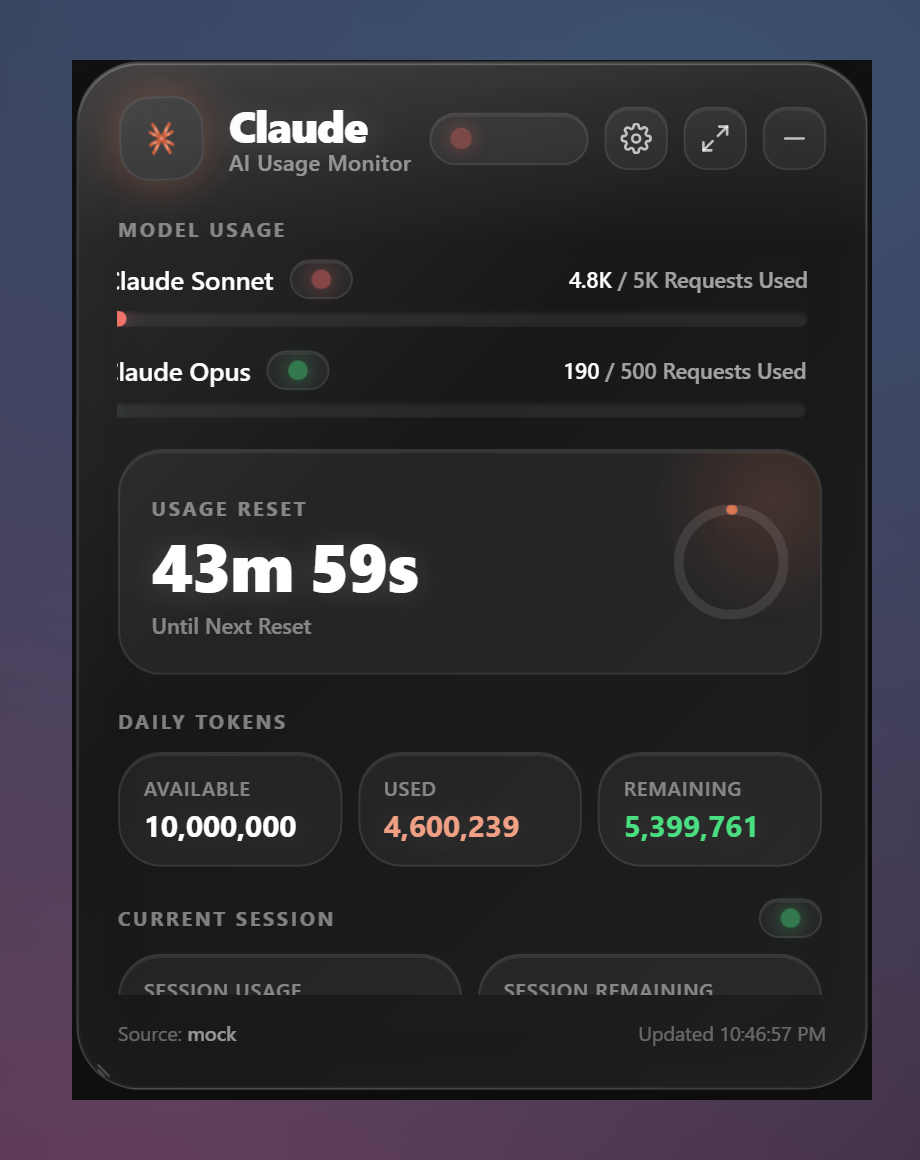
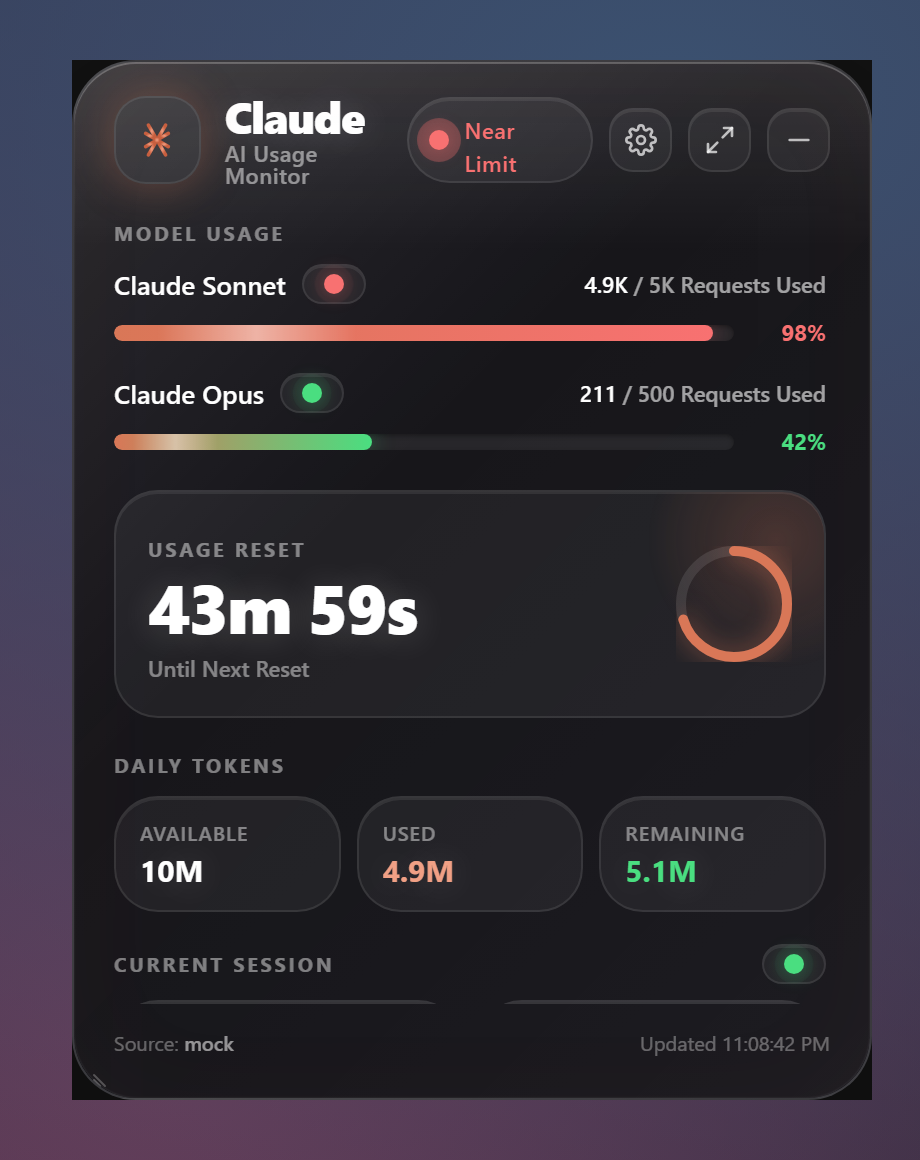
v1.0.1 — drag fix, readability, remove click-through, % bars, compact numbers
- Move: header now calls startDragging() on mousedown (reliable drag)
- Readability: stronger dark glass tint + more opaque default; backdrop-filter
  cannot blur the desktop behind a transparent window, so legibility comes from
  the tint
- Remove Click-Through Mode entirely (UI, store, hook, JS bridge, Rust command)
  and force the window interactive on startup so it can never get stuck
- Show percentage on model + session progress bars
- Daily Tokens use compact K/M/B numbers
- Data: Available daily = configured limit (was max(limit, used))
- Refresh README screenshots

diff --git a/src/components/Header.tsx b/src/components/Header.tsx
@@ -4,7 +4,7 @@ import { ClaudeLogo } from "./ClaudeLogo";
 import { StatusIndicator } from "./StatusIndicator";
 import type { StatusLevel } from "@/types/usage";
 import { useUI } from "@/store/uiStore";
-import { minimizeToTray } from "@/lib/tauri";
+import { minimizeToTray, startDrag } from "@/lib/tauri";
 
 interface HeaderProps {
   level: StatusLevel;
@@ -12,20 +12,28 @@ interface HeaderProps {
 
 /**
  * Top bar: brand mark + title, the live status pill, and the settings / expand
- * controls. The whole bar (except the buttons) is a Tauri drag region so the
- * user can fling the HUD around the desktop.
+ * controls. Press-and-drag anywhere on the bar (except the buttons) to move the
+ * whole window — we call `startDragging()` explicitly because the
+ * `data-tauri-drag-region` attribute alone can be unreliable.
  */
 export function Header({ level }: HeaderProps) {
   const expanded = useUI((s) => s.expanded);
   const toggleExpanded = useUI((s) => s.toggleExpanded);
   const openSettings = useUI((s) => s.openSettings);
 
+  const onDragMouseDown = (e: React.MouseEvent) => {
+    // Primary button only, and never when starting on an interactive control.
+    if (e.button !== 0) return;
+    if ((e.target as HTMLElement).closest("button")) return;
+    void startDrag();
+  };
+
   return (
     <header
-      data-tauri-drag-region
-      className="flex items-center justify-between"
+      onMouseDown={onDragMouseDown}
+      className="flex cursor-grab items-center justify-between active:cursor-grabbing"
     >
-      <div data-tauri-drag-region className="flex items-center gap-3">
+      <div className="flex items-center gap-3">
         <motion.div
           initial={{ rotate: -20, opacity: 0, scale: 0.7 }}
           animate={{ rotate: 0, opacity: 1, scale: 1 }}
@@ -35,17 +43,11 @@ export function Header({ level }: HeaderProps) {
         >
           <ClaudeLogo size={26} />
         </motion.div>
-        <div data-tauri-drag-region className="leading-none">
-          <h1
-            data-tauri-drag-region
-            className="text-[22px] font-extrabold tracking-tight text-white text-glow"
-          >
+        <div className="leading-none">
+          <h1 className="text-[22px] font-extrabold tracking-tight text-white text-glow">
             Claude
           </h1>
-          <p
-            data-tauri-drag-region
-            className="mt-0.5 text-[11px] font-medium tracking-wide text-white/50"
-          >
+          <p className="mt-0.5 text-[11px] font-medium tracking-wide text-white/50">
             AI Usage Monitor
           </p>
         </div>

diff --git a/src/components/SessionSection.tsx b/src/components/SessionSection.tsx
@@ -3,7 +3,13 @@ import { SectionLabel } from "./SectionLabel";
 import { StatTile } from "./StatTile";
 import { ProgressBar } from "./ProgressBar";
 import { StatusIndicator } from "./StatusIndicator";
-import { formatCompact, ratio, statusFromRatio } from "@/lib/utils";
+import {
+  formatCompact,
+  formatPct,
+  ratio,
+  statusFromRatio,
+  STATUS_META,
+} from "@/lib/utils";
 
 interface SessionSectionProps {
   session: SessionStats;
@@ -33,7 +39,17 @@ export function SessionSection({ session }: SessionSectionProps) {
           accent="#4ade80"
         />
       </div>
-      <ProgressBar value={r} />
+      <div className="flex items-center gap-2.5">
+        <div className="flex-1">
+          <ProgressBar value={r} />
+        </div>
+        <span
+          className="w-9 text-right text-[11px] font-bold tabular-nums"
+          style={{ color: STATUS_META[status].color }}
+        >
+          {formatPct(r)}
+        </span>
+      </div>
     </section>
   );
 }

diff --git a/src/components/UsageSection.tsx b/src/components/UsageSection.tsx
@@ -3,7 +3,13 @@ import type { ModelUsage } from "@/types/usage";
 import { ProgressBar } from "./ProgressBar";
 import { SectionLabel } from "./SectionLabel";
 import { StatusIndicator } from "./StatusIndicator";
-import { formatCompact, ratio, statusFromRatio } from "@/lib/utils";
+import {
+  formatCompact,
+  formatPct,
+  ratio,
+  statusFromRatio,
+  STATUS_META,
+} from "@/lib/utils";
 
 interface UsageSectionProps {
   models: ModelUsage[];
@@ -46,7 +52,17 @@ function ModelRow({ model, index }: { model: ModelUsage; index: number }) {
           {formatCompact(model.requestsLimit)} Requests Used
         </span>
       </div>
-      <ProgressBar value={r} />
+      <div className="flex items-center gap-2.5">
+        <div className="flex-1">
+          <ProgressBar value={r} />
+        </div>
+        <span
+          className="w-9 text-right text-[11px] font-bold tabular-nums"
+          style={{ color: STATUS_META[status].color }}
+        >
+          {formatPct(r)}
+        </span>
+      </div>
     </motion.div>
   );
 }

diff --git a/src/lib/tauri.ts b/src/lib/tauri.ts
@@ -45,10 +45,6 @@ export async function setAlwaysOnTop(value: boolean): Promise<void> {
   await invoke("set_always_on_top", { value });
 }
 
-export async function setClickThrough(value: boolean): Promise<void> {
-  await invoke("set_click_through", { value });
-}
-
 export async function setWidgetSize(
   width: number,
   height: number,
@@ -68,6 +64,21 @@ export async function hideWindow(): Promise<void> {
 /** Minimize the HUD to the system tray (no taskbar entry exists). */
 export async function minimizeToTray(): Promise<void> {
   await invoke("hide_window");
+}
+
+/**
+ * Begin an OS-driven window move. Called on mousedown over the header so the
+ * whole top bar reliably drags the widget (more robust than relying solely on
+ * the `data-tauri-drag-region` attribute). No-op outside Tauri.
+ */
+export async function startDrag(): Promise<void> {
+  if (!isTauri()) return;
+  try {
+    const { getCurrentWindow } = await import("@tauri-apps/api/window");
+    await getCurrentWindow().startDragging();
+  } catch (err) {
+    console.warn("[tauri] startDrag failed:", err);
+  }
 }
 
 /** Edge/corner identifiers accepted by Tauri's interactive resize. */

diff --git a/src/store/settingsStore.ts b/src/store/settingsStore.ts
@@ -4,11 +4,9 @@ import { persist } from "zustand/middleware";
 export interface Settings {
   /** Keep the widget above all other windows. */
   alwaysOnTop: boolean;
-  /** Let mouse events pass through the widget to whatever is behind it. */
-  clickThrough: boolean;
   /** Launch the widget automatically when Windows starts. */
   launchOnStartup: boolean;
-  /** Glass opacity, 0.4 (very see-through) .. 1 (solid-ish). */
+  /** Glass opacity, 0.3 (more see-through) .. 1 (more solid). */
   transparency: number;
   /** How often to poll ccusage, in seconds. */
   refreshIntervalSec: number;
@@ -21,9 +19,8 @@ interface SettingsState extends Settings {
 
 export const DEFAULT_SETTINGS: Settings = {
   alwaysOnTop: true,
-  clickThrough: false,
   launchOnStartup: true,
-  transparency: 0.85,
+  transparency: 0.6,
   refreshIntervalSec: 60,
 };
 
@@ -36,7 +33,17 @@ export const useSettings = create<SettingsState>()(
     }),
     {
       name: "claude-glass-settings",
-      version: 1,
+      version: 2,
+      // v1 shipped a too-transparent default + a click-through toggle. Reset the
+      // transparency to the new readable default and drop the removed key.
+      migrate: (state, version) => {
+        const s = (state as Partial<SettingsState> & { clickThrough?: boolean }) ?? {};
+        if (version < 2) {
+          s.transparency = DEFAULT_SETTINGS.transparency;
+          delete s.clickThrough;
+        }
+        return s as SettingsState;
+      },
     },
   ),
 );

diff --git a/src/components/Settings.tsx b/src/components/Settings.tsx
@@ -1,5 +1,5 @@
 import { motion, AnimatePresence } from "framer-motion";
-import { Close, Pin, Ghost, Power, Bolt, Refresh } from "./icons";
+import { Close, Pin, Power, Bolt, Refresh } from "./icons";
 import { useUI } from "@/store/uiStore";
 import { useSettings, DEFAULT_SETTINGS } from "@/store/settingsStore";
 import { cn } from "@/lib/utils";
@@ -46,13 +46,6 @@ export function Settings() {
                 desc="Keep the widget above all windows"
                 checked={s.alwaysOnTop}
                 onChange={(v) => s.set("alwaysOnTop", v)}
-              />
-              <Toggle
-                icon={<Ghost size={15} />}
-                title="Click Through Mode"
-                desc="Let clicks pass through to apps behind"
-                checked={s.clickThrough}
-                onChange={(v) => s.set("clickThrough", v)}
               />
               <Toggle
                 icon={<Power size={15} />}

diff --git a/src/components/DailyTokenSection.tsx b/src/components/DailyTokenSection.tsx
@@ -1,7 +1,7 @@
 import type { TokenStats } from "@/types/usage";
 import { SectionLabel } from "./SectionLabel";
 import { StatTile } from "./StatTile";
-import { formatFull } from "@/lib/utils";
+import { formatCompact } from "@/lib/utils";
 
 interface DailyTokenSectionProps {
   tokens: TokenStats;
@@ -15,16 +15,16 @@ export function DailyTokenSection({ tokens }: DailyTokenSectionProps) {
       <div className="grid grid-cols-3 gap-2">
         <StatTile
           label="Available"
-          value={formatFull(tokens.availableToday)}
+          value={formatCompact(tokens.availableToday)}
         />
         <StatTile
           label="Used"
-          value={formatFull(tokens.usedToday)}
+          value={formatCompact(tokens.usedToday)}
           accent="#f0a085"
         />
         <StatTile
           label="Remaining"
-          value={formatFull(tokens.remainingToday)}
+          value={formatCompact(tokens.remainingToday)}
           accent="#4ade80"
         />
       </div>

diff --git a/src/hooks/useWindowControls.ts b/src/hooks/useWindowControls.ts
@@ -5,7 +5,6 @@ import {
   listen,
   setAlwaysOnTop,
   setAutostart,
-  setClickThrough,
   setWidgetSize,
 } from "@/lib/tauri";
 
@@ -19,7 +18,7 @@ export const EXPANDED_SIZE = { width: 650, height: 800 };
  * menu events (`open-settings`, `toggle-expand`).
  */
 export function useWindowControls(): void {
-  const { alwaysOnTop, clickThrough, launchOnStartup } = useSettings();
+  const { alwaysOnTop, launchOnStartup } = useSettings();
   const expanded = useUI((s) => s.expanded);
   const setExpanded = useUI((s) => s.setExpanded);
   const openSettings = useUI((s) => s.openSettings);
@@ -28,11 +27,6 @@ export function useWindowControls(): void {
   useEffect(() => {
     void setAlwaysOnTop(alwaysOnTop);
   }, [alwaysOnTop]);
-
-  // Click-through.
-  useEffect(() => {
-    void setClickThrough(clickThrough);
-  }, [clickThrough]);
 
   // Launch on startup.
   useEffect(() => {

diff --git a/src/components/GlassCard.tsx b/src/components/GlassCard.tsx
@@ -21,9 +21,12 @@ export function GlassCard({ children }: GlassCardProps) {
   const transparency = useSettings((s) => s.transparency);
   const setHovering = useUI((s) => s.setHovering);
 
-  // transparency 0.4 (more solid) .. 1 (pure glass)
+  // transparency 0.3 (more solid) .. 1 (more glassy)
   const t = clamp(transparency, 0.3, 1);
-  const darkAlpha = (1 - t) * 0.6 + 0.06; // 0.3 -> 0.48, 1 -> 0.06
+  // A high floor keeps the HUD readable over ANY background. CSS backdrop-filter
+  // cannot blur the actual desktop/other apps behind a transparent OS window, so
+  // legibility comes from this dark tint, not from blurring what's behind.
+  const darkAlpha = (1 - t) * 0.4 + 0.68; // 0.3 -> 0.96, 0.6 -> 0.84, 1 -> 0.68
 
   return (
     <motion.div

diff --git a/src-tauri/src/commands.rs b/src-tauri/src/commands.rs
@@ -30,16 +30,6 @@ pub fn set_always_on_top<R: Runtime>(
     window.set_always_on_top(value).map_err(|e| e.to_string())
 }
 
-#[tauri::command]
-pub fn set_click_through<R: Runtime>(
-    window: WebviewWindow<R>,
-    value: bool,
-) -> Result<(), String> {
-    window
-        .set_ignore_cursor_events(value)
-        .map_err(|e| e.to_string())
-}
-
 /// Resize the widget while keeping its top-right corner anchored, so expanding
 /// grows the card down-and-left (matching the floating-HUD feel).
 #[tauri::command]

diff --git a/src-tauri/src/lib.rs b/src-tauri/src/lib.rs
@@ -30,6 +30,10 @@ pub fn run() {
             tray::create_tray(&handle)?;
 
             if let Some(win) = app.get_webview_window("main") {
+                // Safety: always start interactive. (Click-through has been removed,
+                // but this guarantees the window can never launch unclickable.)
+                let _ = win.set_ignore_cursor_events(false);
+
                 // Restore the saved position, or place the HUD top-right on first run.
                 window::restore_or_place(&win);
 
@@ -52,7 +56,6 @@ pub fn run() {
             commands::get_usage,
             commands::ccusage_available,
             commands::set_always_on_top,
-            commands::set_click_through,
             commands::set_widget_size,
             commands::show_window,
             commands::hide_window,

diff --git a/src-tauri/src/ccusage.rs b/src-tauri/src/ccusage.rs
@@ -86,7 +86,9 @@ pub fn build_snapshot() -> Result<Value, String> {
         .unwrap_or_else(|| json!({}));
 
     let used_today = f(&today_row, &["totalTokens"]);
-    let available_today = limits.daily_tokens.max(used_today);
+    // "Available" is the configured daily limit (set CLAUDE_DAILY_TOKEN_LIMIT to
+    // match your plan). Remaining is clamped at 0 so heavy days never go negative.
+    let available_today = limits.daily_tokens;
     let remaining_today = (available_today - used_today).max(0.0);
 
     let (sonnet_tokens, opus_tokens) = model_split(&today_row);